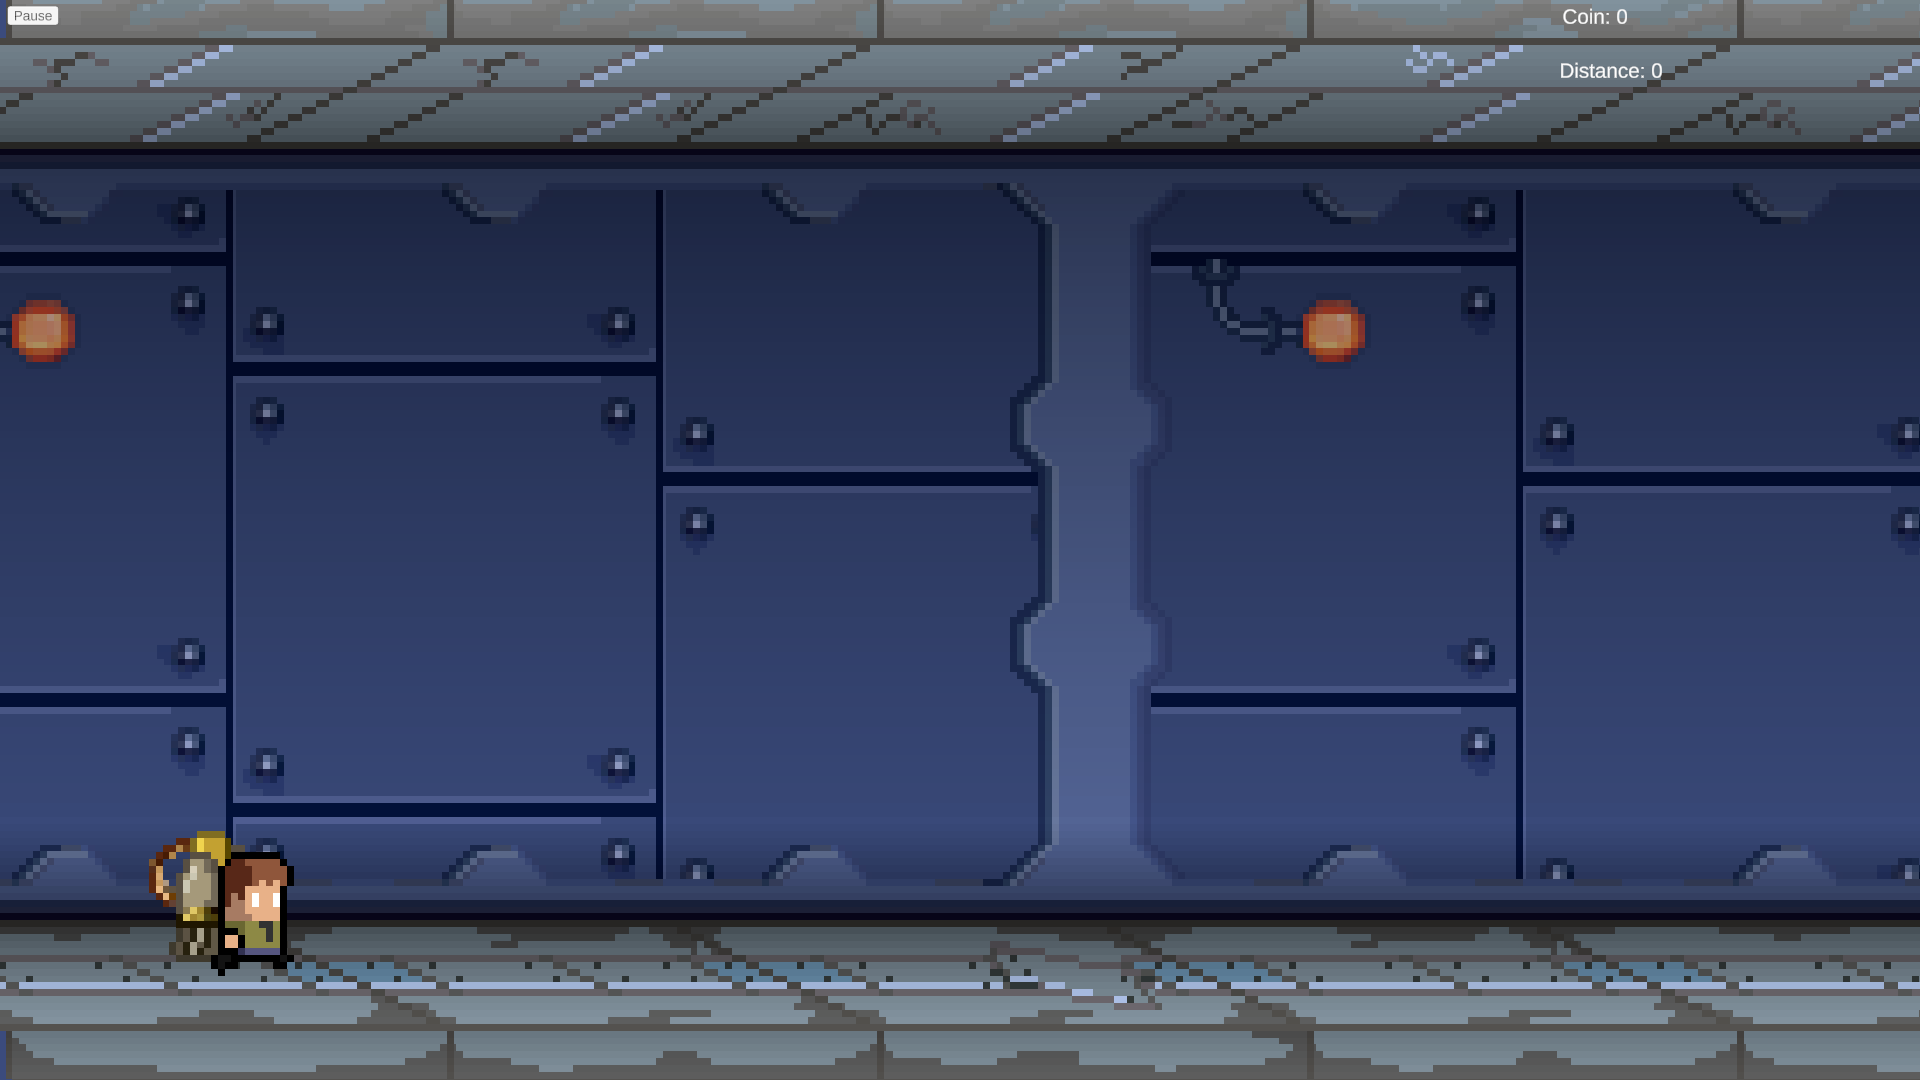
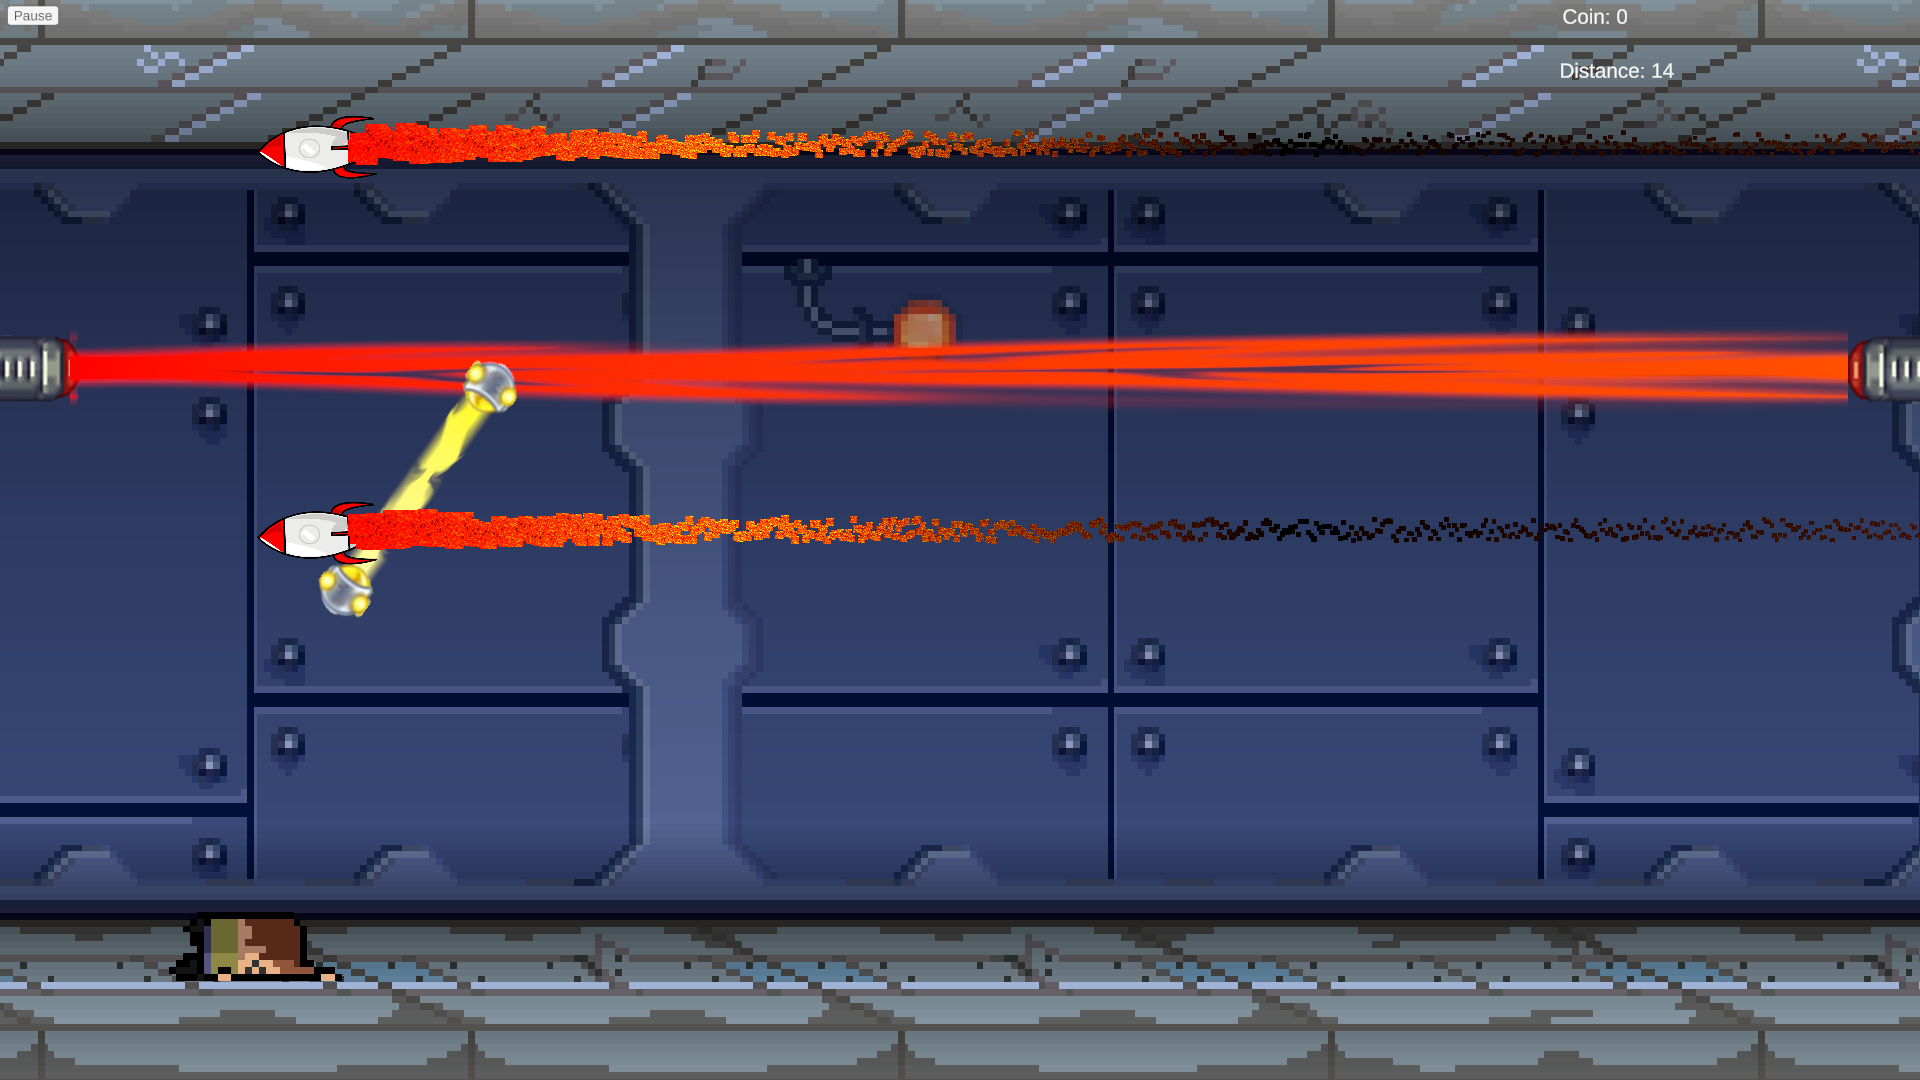
Bullets

diff --git a/NotJetpackJoyrideProject/Assets/Scripts/Controllers/PlayerController.cs b/NotJetpackJoyrideProject/Assets/Scripts/Controllers/PlayerController.cs
@@ -4,6 +4,7 @@ using UnityEngine;
 
 public class PlayerController : MonoBehaviour
 {
+    [SerializeField] private GameObject jetpack;
     [SerializeField] private float jumpForce;
     [SerializeField] private float rocketForce;
     [SerializeField] private float maxVerticalSpeed;
@@ -18,6 +19,7 @@ public class PlayerController : MonoBehaviour
     private int invertMod = 1;
     private Animator animator;
     private GameManager gameManager;
+    private ParticleSystem boolets;
 
     private const float TimeToDeathScreen = 3.0f;
     private float timer = default;
@@ -28,6 +30,7 @@ public class PlayerController : MonoBehaviour
         animator = GetComponent<Animator>();
         playerTransform = GetComponent<Transform>();
         playerRigidbody = GetComponent<Rigidbody2D>();
+        boolets = jetpack.GetComponent<ParticleSystem>();
         gameManager = GameObject.Find("GameManager").GetComponent<GameManager>();
     }
 
@@ -118,12 +121,13 @@ public class PlayerController : MonoBehaviour
 
     private void KillPlayer()
     {
-        playerIsDead = true;
         timer = 0.0f;
         animator.SetLayerWeight(1, 1);
         playerRigidbody.velocity = Vector2.zero;
-        playerRigidbody.gravityScale = 0.0f;
+        playerRigidbody.gravityScale = 2.5f;
+        Destroy(boolets);
         gameManager.CaptureScreenshot(locationOfScreenshot, 1);
+        playerIsDead = true;
 
 
     }
